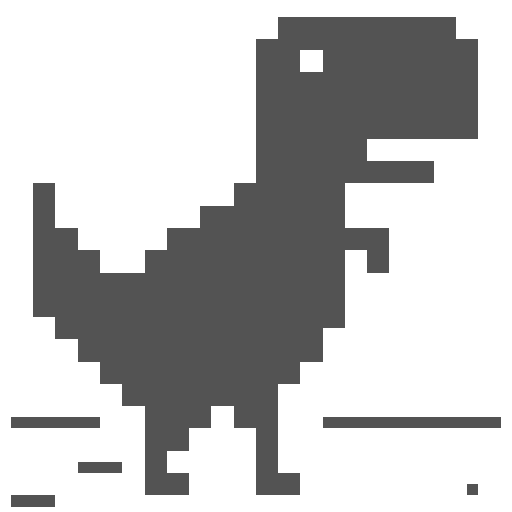
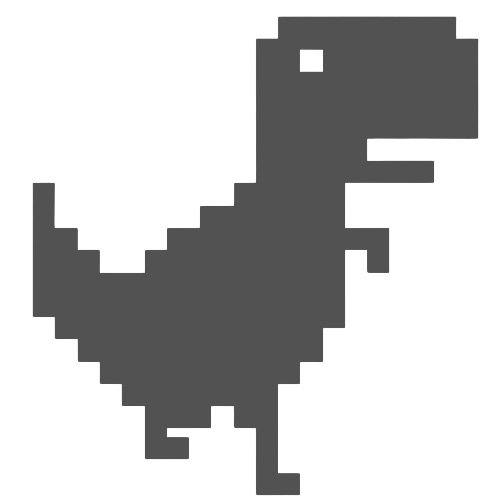
dino-new

diff --git a/html/games/dino/dino.js b/html/games/dino/dino.js
@@ -1,34 +1,57 @@
 const dino = document.getElementById("dino");
 const cactus = document.getElementById("cactus");
+const game = document.getElementById("game");
+
 
 //Чтобы игра не запускалась сразу
 cactus.classList.remove("cactus")
 //Чтобы игра не запускалась сразу
 
+//При нажатии на любую клавишу будет выполняться функция jump()
 document.addEventListener("keydown", function(event) {
     jump();
 });
 
-
+//Определение функции jump()
 function jump () {
+    //Если у динозавра нет класса jump добавить ему этот класс
     if (dino.classList != "jump") {
         dino.classList.add("jump")
     }
-
+    //По истечению 300 мс у динозаврика удалить класс jump
     setTimeout(function() {
         dino.classList.remove("jump")
-    }, 300)
+    }, 600)
 }
 
 
 let isAlive = setInterval (function() {
+    let incr = document.getElementById('numb').value;
+    let lose = document.getElementById('numb2').value;  //Новое
+    //Старт.... Получаем положение динозаврика и кактуса
     let dinoTop = parseInt(window.getComputedStyle(dino).getPropertyValue("top"))
     let cactusLeft = parseInt(window.getComputedStyle(cactus).getPropertyValue("left"))
-
+    //Конец... Получаем положение динозаврика и кактуса
     if (cactusLeft < 50 && cactusLeft > 0 && dinoTop >= 140) {
-        alert("GameOVER")
+        alert("GameOVER");
+        document.getElementById('numb2').value = Number(lose) + 1   //Новое
+        document.getElementById('numb').value = 0;
+        incr = 0;
+        gameOvers(lose);
     }
-}, 10)
+
+    if (incr > 500 && incr < 2000) {
+        game.classList.add("game2")
+        game.classList.remove("game")
+    }
+    else if (incr > 3000) {
+        game.classList.add("game3")
+        game.classList.remove("game2")
+
+    }
+    
+    document.getElementById('numb').value = Number(incr) + 1
+                                        }, 10)
 
 
 document.addEventListener('keydown', function(event) {
@@ -40,4 +63,38 @@ document.addEventListener('keydown', function(event) {
         dino.classList.add("jump")
         cactus.classList.add("cactus")
     }
+
   });
+
+
+let legs  = setInterval(function() {
+
+    setTimeout(function() {
+        dino.classList.remove("dino")
+        dino.classList.add("dino2")
+    }, 500)
+
+    setTimeout(function() {
+        dino.classList.remove("dino2")
+        dino.classList.add("dino")
+    }, 600)
+  
+}, 200)
+
+
+//Новая функция 
+function gameOvers(incrLose) {
+    const life1 = document.getElementById("life1")
+    const life2 = document.getElementById("life2")
+    const life3 = document.getElementById("life3")
+    if (incrLose > 1) {
+        life1.classList.add("non-life")
+    }
+    if (incrLose > 2 && incrLose < 5) {
+        life2.classList.add("non-life")
+    }
+    if (incrLose > 4 && incrLose < 6) {
+        life3.classList.add("non-life")
+    }
+} 
+

diff --git a/html/games/dino/dino.css b/html/games/dino/dino.css
@@ -1,23 +1,55 @@
-.game {
-    width: 600px;
-    height: 200px;
-    border-bottom: 1px solid black;
-    margin: auto;
-}
-
 .start {
     margin: auto;
     text-align: center;
     margin-top: 10px;
 }
 
+.game {
+    width: 600px;
+    height: 228px;
+    border-bottom: 1px solid black;
+    margin: auto;
+    background-image: url("https://img.freepik.com/vector-premium/paisaje-naturaleza-desierto-egipcio-dunas-arena_213110-716.jpg");
+    background-size: 600px 230px;
+}
+
+.game2 {
+    width: 600px;
+    height: 228px;
+    border-bottom: 1px solid black;
+    margin: auto;
+    background-image: url("https://p4.wallpaperbetter.com/wallpaper/199/399/760/artistic-minimalism-desert-hd-wallpaper-preview.jpg");
+    background-size: 600px 230px;
+}
+
+.game3 {
+    width: 600px;
+    height: 228px;
+    border-bottom: 1px solid black;
+    margin: auto;
+    background-image: url("https://gamerwall.pro/uploads/posts/2022-05/thumbs/1652497005_37-gamerwall-pro-p-pustinya-art-minimalizm-oboi-krasivo-52.png");
+    background-size: 600px 230px;
+}
+
 .dino {
     width: 50px;
     height: 50px;
-    background-image: url(../dino/src/dino.png);
+    background-image: url(./src/dino.png);
     background-size: 50px 50px;
     position: relative;
     top: 150px;
+    left: 10px;
+}
+
+
+.dino2 {
+    width: 50px;
+    height: 50px;
+    background-image: url(./src/dino2.png);
+    background-size: 50px 50px;
+    position: relative;
+    top: 150px;
+    left: 10px;
 }
 
 
@@ -32,6 +64,26 @@
     animation: cactusMov 2s infinite linear;
 }
 
+.incr {
+    text-align: center;
+    left: 580px
+}
+
+input {
+    background: none;
+    border: 0px;
+    text-align: center;
+    font-weight: 700;
+}
+
+.life {
+    opacity: 1;
+}
+
+.non-life {
+    opacity: 0;
+}
+
 @keyframes cactusMov {
     0% {
         left: 580px;
@@ -44,7 +96,7 @@
 
 
 .jump {
-    animation: jump 0.3s linear; 
+    animation: jump 0.6s linear; 
 }
 
 @keyframes jump {
@@ -54,17 +106,11 @@
 
     30% {
         top: 30px;
-    }
-
-    50% {
-        top: 80px;
-    }
-
-    80% {
-        top: 130px;
+        transform: rotate(360deg);
     }
 
     100% {
         top: 150px;
+        transform: rotate(360deg);
     }
 }

diff --git a/html/lk.html b/html/lk.html
@@ -6,8 +6,8 @@
     <meta name="viewport" content="width=device-width, initial-scale=1.0">
     <title>Личный кабинет</title>
     <link rel="stylesheet" href="../css/index.css">
-    <!-- Подключение js  -->
-    <script src="../js/lk.js"></script>
+    <!-- fhdgdj -->
+    <link rel="stylesheet" href="./lk.css">
     <!-- Подключение стилей Bootsrap -->
     <link href="https://cdn.jsdelivr.net/npm/bootstrap@5.3.0-alpha1/dist/css/bootstrap.min.css" rel="stylesheet" integrity="sha384-GLhlTQ8iRABdZLl6O3oVMWSktQOp6b7In1Zl3/Jr59b6EGGoI1aFkw7cmDA6j6gD" crossorigin="anonymous">
     <!-- Название страницы -->
@@ -76,8 +76,13 @@
   <div>
   <!-- Контейнер с контентом -->
 
+  <div id="diva" class="first"></div>
 
-        <script src="https://cdn.jsdelivr.net/npm/bootstrap@5.3.0-alpha1/dist/js/bootstrap.bundle.min.js" integrity="sha384-w76AqPfDkMBDXo30jS1Sgez6pr3x5MlQ1ZAGC+nuZB+EYdgRZgiwxhTBTkF7CXvN" crossorigin="anonymous"></script>
+
+        
+  <!-- Подключение js  -->
+  <script src="../js/lk.js"></script>
+  <script src="https://cdn.jsdelivr.net/npm/bootstrap@5.3.0-alpha1/dist/js/bootstrap.bundle.min.js" integrity="sha384-w76AqPfDkMBDXo30jS1Sgez6pr3x5MlQ1ZAGC+nuZB+EYdgRZgiwxhTBTkF7CXvN" crossorigin="anonymous"></script>
     
 </body>
 </html>

diff --git a/html/games/dino/dino.html b/html/games/dino/dino.html
@@ -56,12 +56,30 @@
     
     <div class="start">
         <h4>Нажми <bold>пробел</bold> для старта</h4>
-    </div>
 
-    <div class="game">
+    <div class="game" id="game">
+
+        <!-- Счетчик очков -->
+        <div id="incr" class="incr" style="display:inline">
+            <input id="numb" type="text" value="0">
+        </div>
+        <!-- Счетчик столкновений с кактусом -->
+        <div id="lose" class="lose" style="display:inline"> 
+            <input id="numb2" type="text" value="0">
+        </div>
+        <!-- Жизни палочки -->
+        <div id="lose" class="lose" style="display:inline"> 
+          <input id="life1" class="life" type="text" value="|" style="width:15px">
+          <input id="life2" class="life" type="text" value="|" style="width:15px">
+          <input id="life3" class="life" type="text" value="|" style="width:15px">
+        </div>
+
+
         <div id="dino" class="dino"></div>
         <div id="cactus" class="cactus"></div>
     </div>
+
+  </div>
 
     <script src="./dino.js"> </script>
     

diff --git a/js/lk.js b/js/lk.js
@@ -1,6 +1,5 @@
 let a = prompt("Введите пароль");
 
-
 if (a == '123') {
     alert('Congratulation!')
 }
@@ -9,3 +8,22 @@ else {
     //Редирект на страницу, расположенную по адресу /html/
     document.location.href = '/html/'
 }
+
+
+document.addEventListener("keydown", function(event) {
+    if (event.code == 'KeyX') {
+        diva.classList.add("second")
+        diva.classList.remove("first")
+    }
+
+    if (event.code == 'KeyZ') {
+        diva.classList.add("first")
+        diva.classList.remove("second")
+    }
+});
+
+
+const diva = document.getElementById("diva")
+console.log(diva.classList)
+
+
